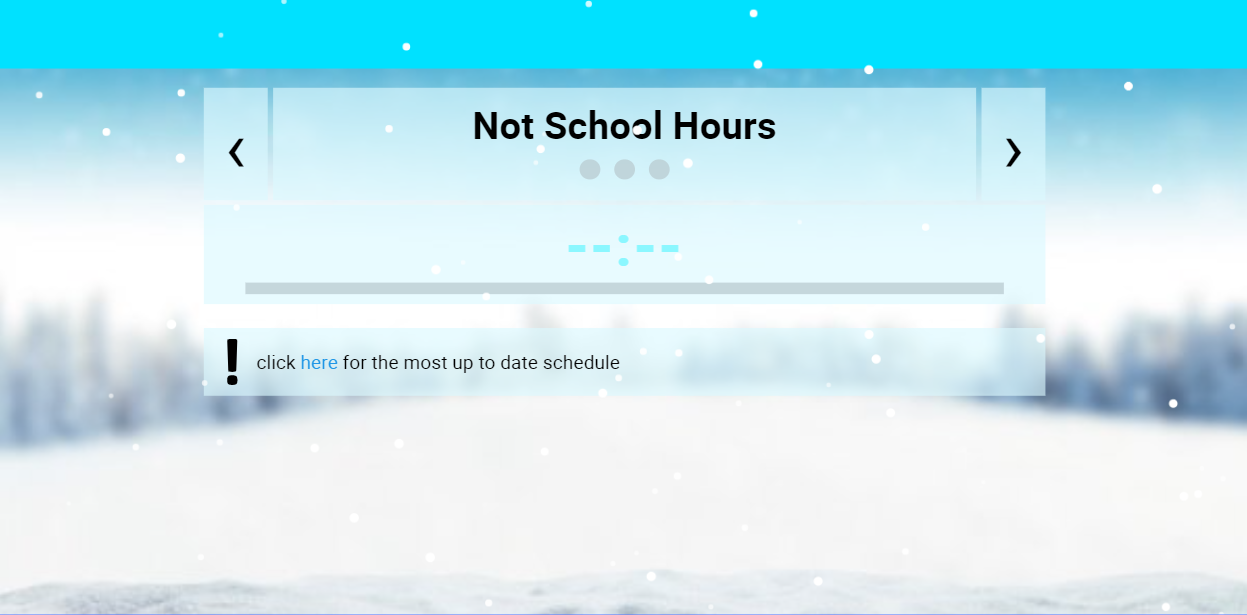
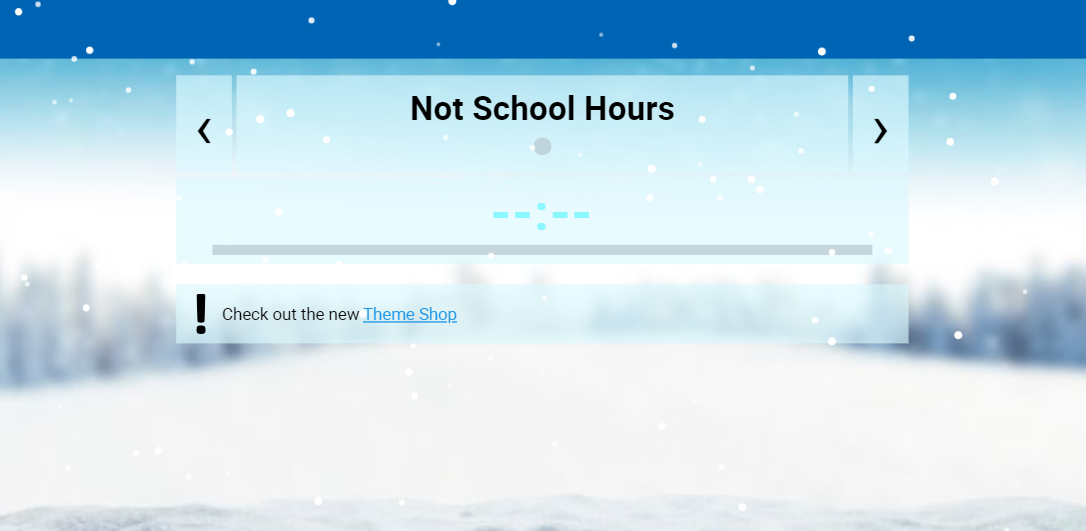
image load and css update
added in a quick preload image, updated frost css for darker colors, and allowed for cache in theme shop

diff --git a/global/js/theme_shop.js b/global/js/theme_shop.js
@@ -62,6 +62,7 @@ function startImageLoad() {
   let loading;
   for(let img of imgs) {
     if(img.alt == "noPreload"){continue;}
+    img.src = "../../global/images/preLoad.png";
     loading = new Image();
     loading.onload = function() {
       img.src = this.src;
@@ -94,7 +95,9 @@ function showThemePuzzle(theme) {
   cont.children[0].textContent = theme + " - Part " + (num + 1);
   cont.children[2].children[1].value = theme;
   if(question[num].includes("../../")) {
-    cont.children[1].children[0].classList = "hidden";
+    let combined = parseText(question[num]),
+    src = combined.shift().textContent;
+    replaceAllChildren(cont.children[1].children[0], combined);
     let img = cont.children[1].children[1];
     img.alt = theme;
     let loading = new Image();
@@ -107,11 +110,23 @@ function showThemePuzzle(theme) {
     if(img.classList.contains("loading")) {
       img.classList = "preview";
     }
-    loading.src = question[num] + "-" + ((isPortrait)? "portrait" : "landscape") + ".png";
+    loading.src = src + "-" + ((isPortrait)? "portrait" : "landscape") + ".png";
   } else {
     cont.children[1].children[1].classList = "preview hidden";
-    cont.children[1].children[0].textContent = question[num];
+    replaceAllChildren(cont.children[1].children[0], parseText(question[num]));
     cont.children[1].children[0].classList = "";
   }
   cont.parentNode.classList = "shown";
+}
+
+function parseText(text) {
+  let breaks = text.split("<br>");
+  let p;
+  let parts = [];
+  for(let phrase of breaks) {
+    p = document.createElement("p");
+    p.textContent = phrase;
+    parts.push(p);
+  }
+  return parts;
 }

diff --git a/fishers/theme_shop/theme_shop.css b/fishers/theme_shop/theme_shop.css
@@ -21,13 +21,14 @@ h2 {
     position: relative;
     width: 25%;
     max-width: 150px;
+    margin: 1px 0.5vh;
 }
 
 .unit-button {
   position: relative;
     background-color: RGB(0,0,0,0);
     padding: 0;
-      margin: 1px 0.5vh;
+    width: 100%;
 }
 .unit-button:hover {
   background-color: RGB(0,0,0,0);
@@ -52,6 +53,7 @@ h2 {
   height:100%;
   display: block;
   filter: blur(20px);
+  aspect-ratio: 0.6;
 }
 img.preview {
   background: var(--secondary-background-color);
@@ -189,11 +191,7 @@ img.loading {
   }
 
   .theme-unit {
-    width: 33%;
     max-width: 250px;
-  }
-
-  .unit-button {
     margin: 15px 5px;
   }
   .unit-img-container {
@@ -202,6 +200,9 @@ img.loading {
   }
   .unit-img-container.locked::after {
     border-radius: 1vw;
+  }
+  .unit-img-container img {
+    aspect-ratio: 2;
   }
   .theme-fullscreen {
     padding: 10px 15px;

diff --git a/global/themes/theme_css/frost.css b/global/themes/theme_css/frost.css
@@ -14,11 +14,11 @@
   --button-hover-text: lightblue;
   --button-active-color: white;
 
-  --header-background-color: #00E1FF;
+  --header-background-color: #0064b4;
   --header-text-color: white;
-  --navigation-background-color: #00E1FF;
-  --navigation-icon-color: #5979FF;
-  --navigation-active-icon-color: white;
+  --navigation-background-color: white;
+  --navigation-icon-color: #0064b4;
+  --navigation-active-icon-color: #00E1FF;
 
   --active-color: #8bf7ff;
   --active-hover-color: #1a90e0;

diff --git a/global/js/DOM.js b/global/js/DOM.js
@@ -54,6 +54,10 @@ function replaceElementsWith(parent, newNodes){
     }
   }
 }
+function replaceAllChildren(parent, newNodes) {
+  clearChildren(parent);
+  replaceElementsWith(parent, newNodes);
+}
 function insertAfter(newNode, referenceNode) {
     referenceNode.parentNode.insertBefore(newNode, referenceNode.nextSibling);
 }

diff --git a/fishers/theme_shop/index.php b/fishers/theme_shop/index.php
@@ -42,7 +42,7 @@ if(isset($_POST["answer"]) and isset($_POST["theme"])) { //checking answer
   }
 
   if(array_key_exists($n, $questions)) {
-    $userAns = stripslashes(strip_tags($_POST["answer"]));
+    $userAns = strtolower(stripslashes(strip_tags($_POST["answer"])));
     if(in_array( $userAns, $ans[$questionNums[$n]])) {
 
       if($questionNums[$n] == count($questions[$n]) - 1) {
@@ -73,9 +73,6 @@ $connection -> close();
 
  <html lang="en" dir="ltr">
    <head>
-     <meta http-equiv="Cache-Control" content="no-cache, no-store, must-revalidate" />
-     <meta http-equiv="Pragma" content="no-cache" />
-     <meta http-equiv="Expires" content="0" />
 
      <meta http-equiv="Content-Type" content="text/html;charset=UTF-8">
      <meta name="viewport" content="width=device-width, initial-scale=1.0">
@@ -86,7 +83,7 @@ $connection -> close();
      <script src="/global/js/DOM.js?v=8" charset="utf-8"></script>
      <script src="/global/js/theme_shop.js?v=8" charset="utf-8"></script>
 
-     <script src="/global/themes/plain_names.js" charset="utf-8"></script>
+     <script src="/global/themes/plain_names.js?v=8" charset="utf-8"></script>
 
      <link rel="stylesheet" href="/global/css/global.css?v=8">
      <link rel="stylesheet" href="/global/css/home.css?v=8">
@@ -111,7 +108,7 @@ $connection -> close();
           <div id = "puzzle-container" class = "container">
             <h2>theme heading</h2>
             <div id ="puzzle-content">
-              <p class = "hidden"></p>
+              <div id = "text-puzzle" class = ""></div>
               <img src="" alt="noPreload" class = "hidden preview">
             </div>
             <form class="puzzle-post" action="" method="post">
